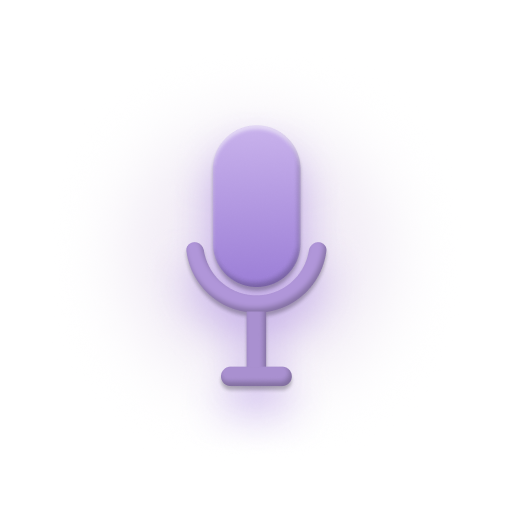
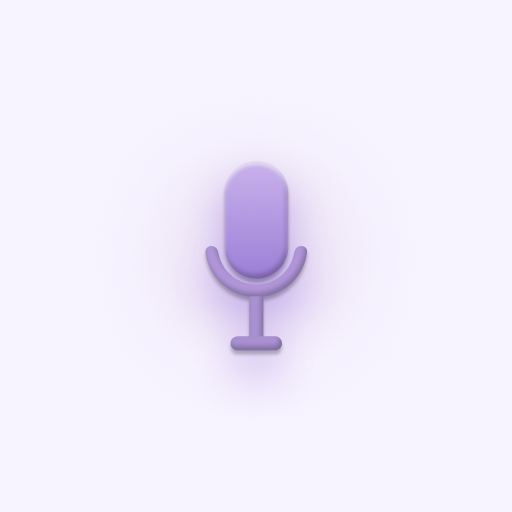
Persist Pro across restarts; robust entitlement check

Changed region(s): [[0.3438, 0.25, 0.6562, 0.7812]]

diff --git a/App.js b/App.js
@@ -2,8 +2,12 @@
 // each group is one line/speech you rehearse repeatedly; the coach tracks your
 // improvement across attempts. Onboarding once; system/light/dark theming.
 import React, { useEffect, useState, useCallback } from 'react';
-import { View, BackHandler, Alert } from 'react-native';
+import { View, BackHandler, Alert, Platform } from 'react-native';
 import { StatusBar } from 'expo-status-bar';
+
+// Android system navigation bar — optional native module (guarded for Expo Go).
+let NavigationBar = null;
+try { NavigationBar = require('expo-navigation-bar'); } catch (e) { NavigationBar = null; }
 import { SafeAreaProvider, useSafeAreaInsets } from 'react-native-safe-area-context';
 import {
   useFonts,
@@ -77,7 +81,9 @@ function Root() {
         const ok = await initPurchases();
         if (ok) {
           const active = await checkProStatus();
-          setSt((prev) => ({ ...prev, isPro: active }));
+          // Only override stored Pro when we got a real answer (true/false).
+          // null = couldn't reach RevenueCat → keep whatever was saved locally.
+          if (active !== null) setSt((prev) => ({ ...prev, isPro: active }));
         }
       }
     })();
@@ -91,6 +97,13 @@ function Root() {
   }, []);
 
   useEffect(() => { if (hydrated) saveState(st); }, [st, hydrated]);
+
+  // Match the Android system navigation bar to the current theme (dark/light).
+  useEffect(() => {
+    if (Platform.OS !== 'android' || !NavigationBar) return;
+    NavigationBar.setButtonStyleAsync(t.dark ? 'light' : 'dark').catch(() => {});
+    NavigationBar.setBackgroundColorAsync(t.bg).catch(() => {});
+  }, [t.dark, t.bg]);
 
   const groupById = (id) => st.groups.find((g) => g.id === id);
   const recentTakeCount = () => (st.takeTimes || []).filter((ts) => Date.now() - ts < FREE_WINDOW_MS).length;

diff --git a/src/services/purchases.js b/src/services/purchases.js
@@ -33,7 +33,13 @@ function apiKey() {
 }
 
 function hasPro(info) {
-  return !!(info && info.entitlements && info.entitlements.active && info.entitlements.active[PRO_ENTITLEMENT]);
+  const active = info && info.entitlements && info.entitlements.active;
+  if (!active) return false;
+  if (active[PRO_ENTITLEMENT]) return true;
+  // Single-tier app: any active entitlement means Pro. This makes us robust to a
+  // small mismatch between PRO_ENTITLEMENT and the dashboard's entitlement id,
+  // so a valid purchase is never lost just because the name doesn't line up.
+  return Object.keys(active).length > 0;
 }
 
 // Configure once on app launch. Returns true if RevenueCat is live.
@@ -62,13 +68,15 @@ export function onProStatusChange(cb) {
   };
 }
 
-// Current Pro state from RevenueCat. False if unavailable/unconfigured.
+// Current Pro state from RevenueCat. Returns true/false when we get a definitive
+// answer, or NULL when we couldn't reach RevenueCat — callers must NOT downgrade
+// a stored Pro state on null (that's what was wiping purchases at launch).
 export async function checkProStatus() {
-  if (!Purchases || !configured) return false;
+  if (!Purchases || !configured) return null;
   try {
     return hasPro(await Purchases.getCustomerInfo());
   } catch (e) {
-    return false;
+    return null;
   }
 }
 

diff --git a/src/config.js b/src/config.js
@@ -19,13 +19,12 @@ export const REVENUECAT_ANDROID_KEY = 'goog_sQjqjpuKtzvPVbcCCbHLXAkqdQK';
 // Entitlement identifier — must EXACTLY match the identifier of the entitlement
 // you created in RevenueCat (Project → Entitlements). Display name can be
 // "AudioCoach AI Pro"; the identifier is typically short, e.g. "pro".
-export const PRO_ENTITLEMENT = 'pro';
+export const PRO_ENTITLEMENT = 'audiocoach-pro';
 
 // Package identifiers in your RevenueCat Offering (Project → Offerings).
 // RevenueCat's standard identifiers: '$rc_lifetime', '$rc_annual', '$rc_monthly'.
 // We also accept your custom ids 'lifetime' / 'yearly' / 'monthly'.
 export const PACKAGE_IDS = {
-  lifetime: ['$rc_lifetime', 'lifetime'],
   yearly: ['$rc_annual', 'yearly', 'annual'],
   monthly: ['$rc_monthly', 'monthly'],
 };
